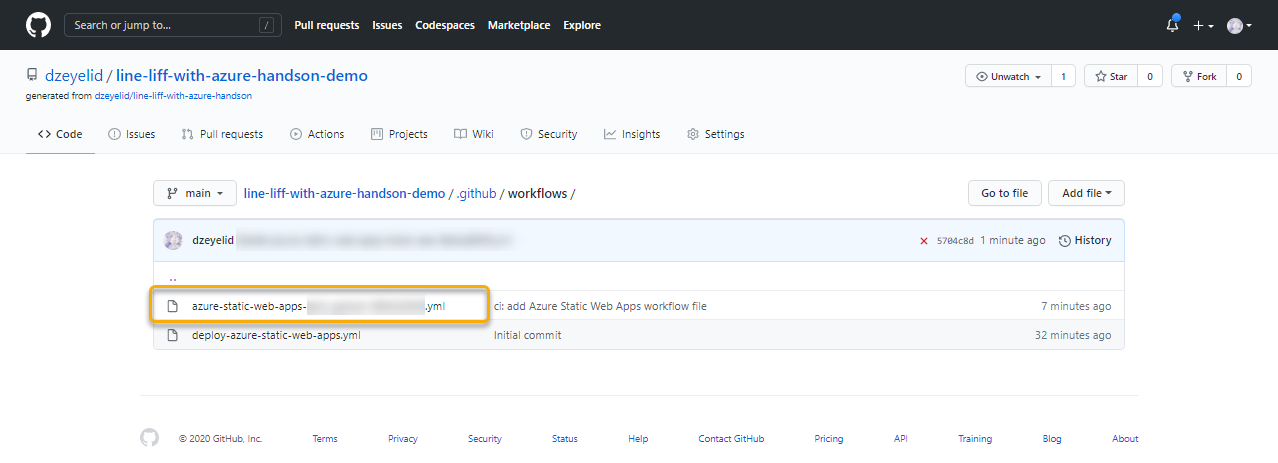
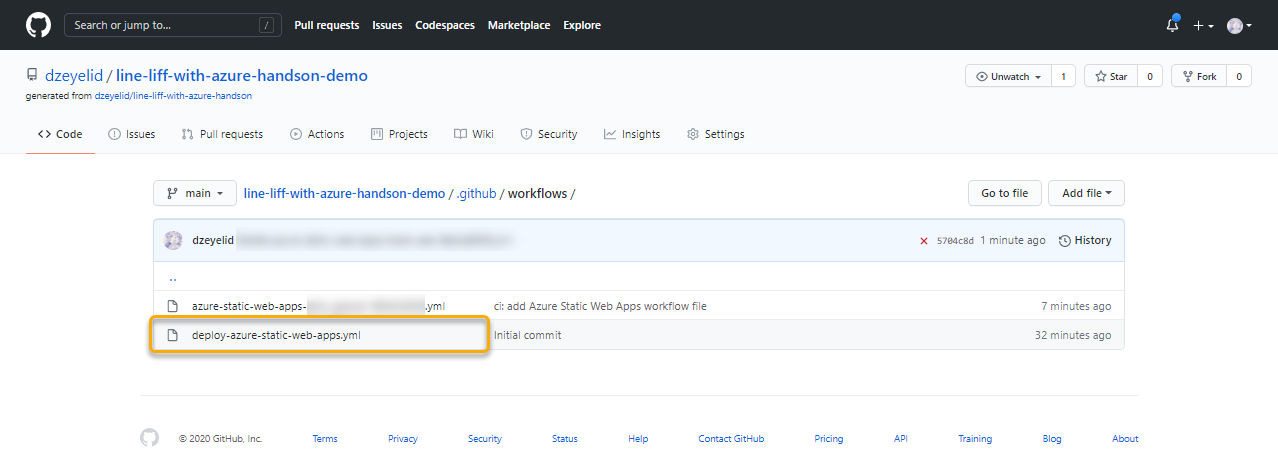
Update docs

Changed region(s): [[0.0915, 0.6048, 0.3967, 0.7862]]

diff --git a/docs/self-paced-handson.md b/docs/self-paced-handson.md
@@ -18,8 +18,14 @@
 
 1. LINE アカウントで LINEログインのチャネルを作成する
 1. GitHub リポジトリをテンプレートから作成する
-1. Azure にリソースをデプロイする
-2. LIFF にフロントエンドのURLを設定する
+1. GitHub の Personal access token を生成する
+1. Azure Static Web Apps と Cosmos DB をデプロイする
+1. Azure Static Web Apps の Functions の Application settings を設定する
+1. GitHub リポジトリの Secrets を設定する
+1. GitHub リポジトリのワークフローを修正する
+1. GitHub アクションを確認する
+1. LINE DevelopersコンソールでエンドポイントURLを設定する
+1. 動作確認をする
 
 ## LINE アカウントで LINEログインのチャネルを作成する
 
@@ -171,7 +177,7 @@ GitHub Actions のワークフローによる Azure Static Web Apps のデプロ
 
 ![](./images/github_secrets_001.png)
 
-すると、すでにひとつ `AZURE_STATIC_WEB_APPS_API_TOKEN_XXXX_XXXX_000000000` というような secret が作成されていることがわかります。これは、Azure Static Web Apps のリソースをデプロイしたときに自動的に作成された secret です。ワークフローはこの secret を用ることによってコードを Azure Static Web Apps にデプロイできるようになります。
+すると、すでにひとつ `AZURE_STATIC_WEB_APPS_API_TOKEN_XXXX_XXXX_123456789` というような secret が作成されていることがわかります。これは、Azure Static Web Apps のリソースをデプロイしたときに自動的に作成された secret です。ワークフローはこの secret を用ることによってコードを Azure Static Web Apps にデプロイできるようになります。
 
 ![](./images/github_secrets_002.png)
 
@@ -181,7 +187,7 @@ GitHub Actions のワークフローによる Azure Static Web Apps のデプロ
 
 ![](./images/github_secrets_003.png)
 
-「Name」に `VUE_APP_LIFF_ID` を指定し、「Value」に前の手順で控えた「LIFF ID」を指定し、「Add secret」ボタンを選択して保存します。
+「Name」に `LIFF_ID` を指定し、「Value」に前の手順で控えた「LIFF ID」を指定し、「Add secret」ボタンを選択して保存します。
 
 ![](./images/github_secrets_004.png)
 
@@ -191,28 +197,123 @@ GitHub Actions のワークフローによる Azure Static Web Apps のデプロ
 
 ![](./images/github_edit-workflow_001.png)
 
-`.github/workflows` には、2つのワークフローがあることがわかります。
+`.github/workflows` には、2つのワークフローがあります。
 
-Azure Static Web Apps はデプロイされると指定したリポジトリに `azure-static-web-apps-xxx-xxx-000000000.yml` という様なファイル名のワークフローを作成します。
+このうち、 `deploy-azure-static-web-apps.yml` は元リポジトリで使用していたものなので、削除しておきましょう。
 
 ![](./images/github_edit-workflow_002.png)
 
-`azure-static-web-apps-xxx-xxx-000000000.yml` を開いてみると、すでに `Azure/static-web-apps-deploy@v0.0.1-preview` という Azure Static Web Apps にデプロイするための GitHub アクションが設定されていることがわかります。
+`deploy-azure-static-web-apps.yml` を開き、ごみ箱のマークを選択しファイルを削除します。
 
-先ほど確認した secret `AZURE_STATIC_WEB_APPS_API_TOKEN_XXXX_XXXX_000000000` もここで利用されていることがわかります。
+![](./images/github_edit-workflow_003.png)
+
+ここでは、適宜コミットタイトルとディスクリプションを入力し、「Commit changes」ボタンを選択し、削除をコミットします。なお、実際のコミットの作法は各自・各プロジェクトに従ってください。
+
+![](./images/github_edit-workflow_004.png)
+
+つぎに、もう一方の `azure-static-web-apps-xxx-xxx-123456789.yml` というようなファイル名のワークフローは、Azure Static Web Apps のデプロイ時に生成されたものです。（以降、`azure-static-web-apps-<suffix>.yml` と表記します。）
+
+![](./images/github_edit-workflow_004.png)
+
+この `azure-static-web-apps-<suffix>.yml` をみてみましょう。
+
+すでに `Azure/static-web-apps-deploy@v0.0.1-preview` という Azure Static Web Apps にデプロイするための GitHub アクションが設定されていることがわかります。
+
+そして、このアクションのパラメータ `azure_static_web_apps_api_token` には、先ほど確認した secret `AZURE_STATIC_WEB_APPS_API_TOKEN_XXXX_XXXX_123456789` が利用されていることもわかります。
 
 さて、本アプリを正しくデプロイするために一部編集します。
 
+GitHub で扱いファイルを編集するには多くの方法がありますが、ここでは GitHub 上で直接編集します。ファイルの右上にある鉛筆のマーク（Edit this file という注釈）を選択して、編集画面に遷移します。
 
-LIFF ID を設定する
+![](./images/github_edit-workflow_005.png)
 
-これをワークフローに設定します。
+GitHub 上でワークフローファイルを編集するときは、このように GitHub アクションが編集しやすいUIを利用できます。
+
+![](./images/github_edit-workflow_006.png)
+
+「Azure/static-web-apps-deploy」アクションの実行時に、環境変数として `VUE_APP_LIFF_ID` を渡したいので、下記の設定を追加します。
+
+```yml
+env:
+  VUE_APP_LIFF_ID: ${{ secrets.LIFF_ID }}
+```
+
+追加する位置は、 `with:` と同階層です。
+
+```diff
+      - name: Build And Deploy
+        id: builddeploy
+        uses: Azure/static-web-apps-deploy@v0.0.1-preview
+        with:
+        ...
+          ###### End of Repository/Build Configurations ######
++       env:
++         VUE_APP_LIFF_ID: ${{ secrets.LIFF_ID }}
+```
+
+![](./images/github_edit-workflow_007.png)
+
+GitHubアクションの利用については、こちらをご参考ください。
+
+- [GitHub Actions 入門 - GitHub Docs](https://docs.github.com/ja/free-pro-team@latest/actions/learn-github-actions/introduction-to-github-actions)
+
+また、「Azure/static-web-apps-deploy」アクションの詳細はこちらをご参照ください。
+
+- [Azure Static Web Apps Deploy · Actions · GitHub Marketplace](https://github.com/marketplace/actions/azure-static-web-apps-deploy)
+
+ファイルの編集ができたら、コミットします。ここでは、「Start commit」ボタンを選択し、コミットタイトルやディスクリプションを適宜入力の上、「Commit changes」ボタンを選択しコミットします。なお、実際のコミットの作法は各自・各プロジェクトに従ってください。
+
+![](./images/github_edit-workflow_008.png)
+
+## GitHub アクションを確認する
+
+コミットを終えると、このワークフローが実行されます。（ `on.push.branches: [main]` のトリガが設定されているため）
+
+実行内容を見てみましょう。「Actions」タブを開くとこれまでに実行されたワークフローの一覧が表示されます。
+
+実行中のワークフロー（黄色いマーク）を開いてみましょう。
+
+![](./images/github_workflow_001.png)
+
+「Buid and Deploy Job」を開くと各ステップを見ることができます。「Build And Deploy」を開くと、Azure Static Web Apps へコードをデプロイする様子を確認することができます。
+
+![](./images/github_workflow_002.png)
+
+下の方までスクロールし、デプロイが成功していると、このようにデプロイされたURL `https://<prefix>.azurestaticapps.net/` が表示されます。（URLは各環境で異なります。）
+
+![](./images/github_workflow_003.png)
+
+このURLをコピーして控えておいてください。
+
+## LINE DevelopersコンソールでエンドポイントURLを設定する
+
+URLを開く前に、最後の仕上げがあります。
+
+[LINE Developersコンソール](https://developers.line.biz/console/) にもどり、作成したLIFFアプリの詳細画面に戻ります。 
+
+「エンドポイントURL」の「編集」ボタンを選択し、先ほど表示されていた Azure Static Web Apps のURLに置き換えます。「更新」ボタンを選択し、保存しましょう。
+
+![](./images/line-devepolers-console_liff-setting_004.png)
+
+## 動作確認をする
+
+ここまで完了しましたら、LIFF URL を開いてみましょう！LINEアプリがインストールされているスマートフォン、あるいは外部ブラウザでURLを開きます。
+
+![](./images/line-devepolers-console_liff-setting_005.png)
+
+スマートフォンで開いた場合は、LINEアプリが起動しこのように表示されます。
+
+![](./images/liff-app_on-line_001.png)
 
 
-----
+「Allow」を選択し、許可することで LIFFアプリを利用できるようになります。
 
-### メモ
+![](./images/liff-app_on-line_002.png)
 
-LIFF ID は GitHub Secret に指定する
+外部ブラウザで開いた場合は、LINEログインを促され、ログインすると LIFF アプリが表示されます。
 
-コラム: テンプレートからリポジトリを作成すると、 `.github/workflows/deploy-azure-static-web-app.yml` があるので GitHub Actions のワークフローが実行されますが、 `azure_static_web_apps_api_token was not provided.` というエラーが発生し失敗します。
+![](./images/liff-app_on-web_001.png)
+
+![](./images/liff-app_on-web_002.png)
+
+Congratulation!! :tada:
